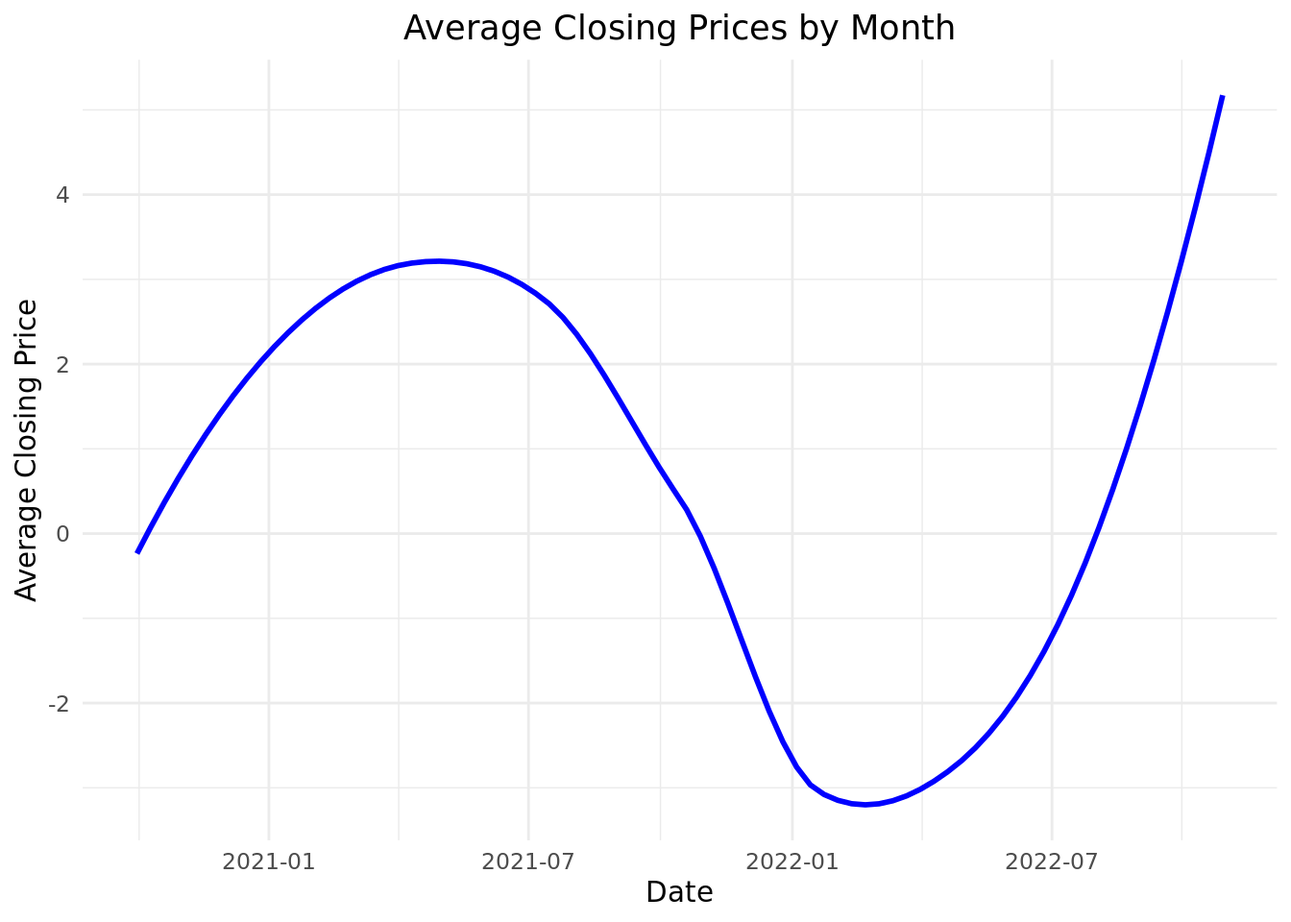
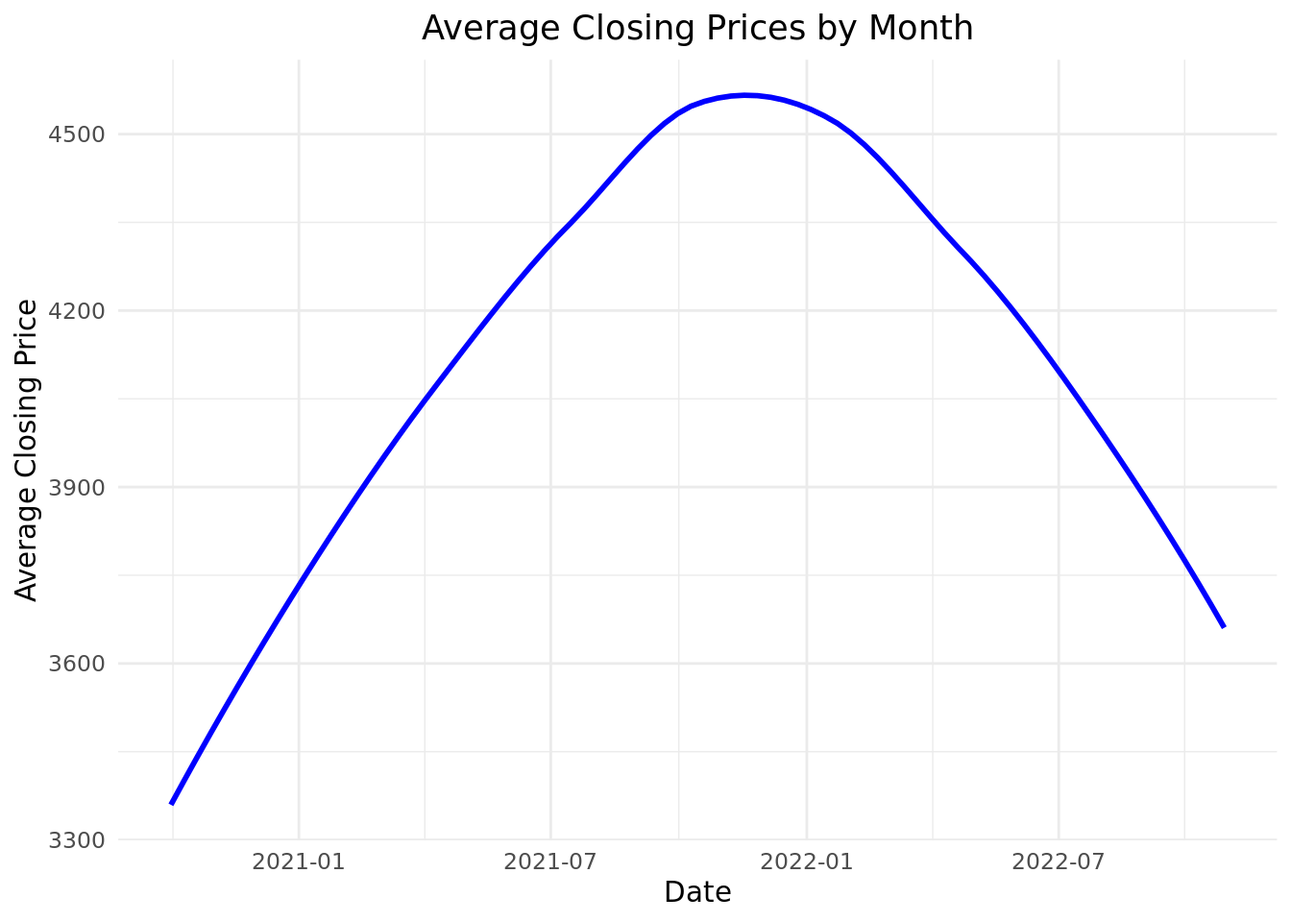
in progress

diff --git a/docs/report.html b/docs/report.html
@@ -226,8 +226,8 @@ code span.wa { color: #60a0b0; font-weight: bold; font-style: italic; } /* Warni
 <p>All of these sites collected these data by retrieving the data published publicly on stock exchanges, except for the federal-funds rate–this data was collected from the World Bank. In addition, each of these sites updates their data monthly/yearly (although they could update it daily, as they are collecting live data). Each observation represents a month in a year (between 1961 and 2020) and includes the following variables:</p>
 <table class="table">
 <colgroup>
-<col style="width: 30%">
-<col style="width: 69%">
+<col style="width: 31%">
+<col style="width: 68%">
 </colgroup>
 <thead>
 <tr class="header">
@@ -458,8 +458,8 @@ $ decade                  &lt;chr&gt; "'60s", "'60s", "'60s", "'60s", "'60s", "'
 <p>Investing.com gets their data from financial-data providers, including stock exchanges and/or directly from market makers (who set stock prices to match supply and demand). The data is collected in real time by monitoring transactions (selling, buying, etc.) executed in the stock market, which correspond to increases/decreases in prices. Each observation represents a different day (between 1 October 2020 and 28 October 2022) and includes the following variables:</p>
 <table class="table">
 <colgroup>
-<col style="width: 29%">
-<col style="width: 70%">
+<col style="width: 30%">
+<col style="width: 69%">
 </colgroup>
 <thead>
 <tr class="header">
@@ -607,11 +607,11 @@ $ gain                 &lt;lgl&gt; TRUE, FALSE, TRUE, TRUE, TRUE, TRUE, FALSE, F
 <span id="cb17-9"><a href="#cb17-9" aria-hidden="true" tabindex="-1"></a>  ) <span class="sc">|&gt;</span></span>
 <span id="cb17-10"><a href="#cb17-10" aria-hidden="true" tabindex="-1"></a>  <span class="fu">group_by</span>(new_date) <span class="sc">|&gt;</span></span>
 <span id="cb17-11"><a href="#cb17-11" aria-hidden="true" tabindex="-1"></a>  <span class="fu">summarise</span>(</span>
-<span id="cb17-12"><a href="#cb17-12" aria-hidden="true" tabindex="-1"></a>    <span class="at">mean_daily_diff =</span> <span class="fu">mean</span>(daily_diff), </span>
+<span id="cb17-12"><a href="#cb17-12" aria-hidden="true" tabindex="-1"></a>    <span class="at">mean_daily_diff =</span> <span class="fu">mean</span>(Price), </span>
 <span id="cb17-13"><a href="#cb17-13" aria-hidden="true" tabindex="-1"></a>    <span class="at">mean_price =</span> <span class="fu">mean</span>(Price), </span>
 <span id="cb17-14"><a href="#cb17-14" aria-hidden="true" tabindex="-1"></a>    <span class="at">.groups =</span> <span class="st">"drop"</span></span>
 <span id="cb17-15"><a href="#cb17-15" aria-hidden="true" tabindex="-1"></a>  ) <span class="sc">|&gt;</span></span>
-<span id="cb17-16"><a href="#cb17-16" aria-hidden="true" tabindex="-1"></a>  <span class="fu">ggplot</span>(<span class="fu">aes</span>(<span class="at">x =</span> new_date, <span class="at">y =</span> mean_daily_diff)) <span class="sc">+</span></span>
+<span id="cb17-16"><a href="#cb17-16" aria-hidden="true" tabindex="-1"></a>  <span class="fu">ggplot</span>(<span class="fu">aes</span>(<span class="at">x =</span> new_date, <span class="at">y =</span> mean_price)) <span class="sc">+</span></span>
 <span id="cb17-17"><a href="#cb17-17" aria-hidden="true" tabindex="-1"></a>  <span class="fu">geom_smooth</span>(<span class="at">se=</span> <span class="cn">FALSE</span>, <span class="at">colour =</span> <span class="st">"blue"</span>) <span class="sc">+</span></span>
 <span id="cb17-18"><a href="#cb17-18" aria-hidden="true" tabindex="-1"></a>  <span class="fu">labs</span>(</span>
 <span id="cb17-19"><a href="#cb17-19" aria-hidden="true" tabindex="-1"></a>    <span class="at">x =</span> <span class="st">"Date"</span>,</span>
@@ -624,6 +624,7 @@ $ gain                 &lt;lgl&gt; TRUE, FALSE, TRUE, TRUE, TRUE, TRUE, FALSE, F
 <p><img src="report_files/figure-html/l%20label-%20last-first-day-price-difference-2.png" class="img-fluid" width="672"></p>
 </div>
 </div>
+<p>We then graphed the average daily change (between opening and closing prices) and closing price for each month. We did this by grouping the data by months then finding the summary mean of the average daily change and closing price for each month. Then we used geom_smooth to plot a line graph to visualizing the trends from 10/01/2020 to 10/28/2022. We observe that the average daily difference between opening and closing prices (plotted in red) increase logarithmically from October 2020 to approximately May 2021, decrease linearly from May 2021 to February 2022, then increase exponentially from February 2022 to October 2022. We observe that the average closing prices increase linearly from October 2020 to approximately November 2021, then decrease linearly from November 2021 to October 2022.&nbsp;</p>
 <p>Conclusion: Our initial hypothesis of “the stock market will fall as inflation rates rise, but even then there are good times to invest even with problematic circumstances” is partially backed up by the data. For example, in our third visual, when the Average Daily Difference is below 0 near the 2022-01 to 2022-07 timeframe, the Average closing prices are still relatively high compared to earlier ones. Also, in our second visual, we can see that 2022-07 month has one of the highest gain/loss proportions, yet still has a negative average daily difference from our third visual. Our data also answers the original question of “when to be bearish and when to be bullish” as our second visual shows the months in which daily gains or losses are more prevalent.</p>
 <div style="page-break-after: always;"></div>
 </section>
@@ -638,8 +639,8 @@ $ gain                 &lt;lgl&gt; TRUE, FALSE, TRUE, TRUE, TRUE, TRUE, FALSE, F
 <p>DATA HUB collected their data from S&amp;P Dow Jones Indices (which, in turn, is collected daily from stock exchanges), and Slickcharts their data directly from the stock exchange. Each observation represents a different company and includes the following variables:</p>
 <table class="table">
 <colgroup>
-<col style="width: 30%">
-<col style="width: 69%">
+<col style="width: 26%">
+<col style="width: 73%">
 </colgroup>
 <thead>
 <tr class="header">
@@ -701,61 +702,87 @@ $ sector          &lt;chr&gt; "Information Technology", "Information Technology"
 $ return_category &lt;chr&gt; "negative", "negative", "negative", "negative", "negat…</code></pre>
 </div>
 </div>
-<p>Our first bar graph will analyze just the total number of stocks in the S&amp;P 500 that saw a decrease, and those that saw an increase.</p>
 <div class="cell">
 <div class="sourceCode cell-code" id="cb20"><pre class="sourceCode r code-with-copy"><code class="sourceCode r"><span id="cb20-1"><a href="#cb20-1" aria-hidden="true" tabindex="-1"></a><span class="co">#|: overall-stocks_performance-barchart</span></span>
 <span id="cb20-2"><a href="#cb20-2" aria-hidden="true" tabindex="-1"></a>sp500_by_company_and_sector <span class="sc">|&gt;</span></span>
-<span id="cb20-3"><a href="#cb20-3" aria-hidden="true" tabindex="-1"></a>  <span class="fu">ggplot</span>(<span class="fu">aes</span>(<span class="at">x =</span> return_category)) <span class="sc">+</span></span>
-<span id="cb20-4"><a href="#cb20-4" aria-hidden="true" tabindex="-1"></a>  <span class="fu">geom_bar</span>() <span class="sc">+</span></span>
+<span id="cb20-3"><a href="#cb20-3" aria-hidden="true" tabindex="-1"></a>  <span class="fu">ggplot</span>(<span class="fu">aes</span>(<span class="at">x =</span> return_category, <span class="at">fill =</span> return_category)) <span class="sc">+</span></span>
+<span id="cb20-4"><a href="#cb20-4" aria-hidden="true" tabindex="-1"></a>  <span class="fu">geom_bar</span>(<span class="at">show.legend =</span> <span class="cn">FALSE</span>) <span class="sc">+</span></span>
 <span id="cb20-5"><a href="#cb20-5" aria-hidden="true" tabindex="-1"></a>  <span class="fu">labs</span>(</span>
 <span id="cb20-6"><a href="#cb20-6" aria-hidden="true" tabindex="-1"></a>    <span class="at">title =</span> <span class="st">"Rising and Decreasing Stock Prices"</span>,</span>
 <span id="cb20-7"><a href="#cb20-7" aria-hidden="true" tabindex="-1"></a>    <span class="at">x =</span> <span class="st">"Change in Price (%)"</span>,</span>
 <span id="cb20-8"><a href="#cb20-8" aria-hidden="true" tabindex="-1"></a>    <span class="at">y =</span> <span class="st">"Number of Companies"</span>,</span>
 <span id="cb20-9"><a href="#cb20-9" aria-hidden="true" tabindex="-1"></a>    <span class="at">fill =</span> <span class="st">"cc"</span></span>
-<span id="cb20-10"><a href="#cb20-10" aria-hidden="true" tabindex="-1"></a>       )</span></code><button title="Copy to Clipboard" class="code-copy-button"><i class="bi"></i></button></pre></div>
+<span id="cb20-10"><a href="#cb20-10" aria-hidden="true" tabindex="-1"></a>       ) <span class="sc">+</span></span>
+<span id="cb20-11"><a href="#cb20-11" aria-hidden="true" tabindex="-1"></a>  <span class="fu">theme_minimal</span>() <span class="sc">+</span></span>
+<span id="cb20-12"><a href="#cb20-12" aria-hidden="true" tabindex="-1"></a>  <span class="fu">scale_fill_viridis_d</span>()</span></code><button title="Copy to Clipboard" class="code-copy-button"><i class="bi"></i></button></pre></div>
 <div class="cell-output-display">
 <p><img src="report_files/figure-html/unnamed-chunk-14-1.png" class="img-fluid" width="672"></p>
 </div>
 </div>
+<p>Our first bar graph will analyze just the total number of stocks in the S&amp;P 500 that saw a decrease, and those that saw an increase. We model this by using each stocks year to date return, and classifying it as a decrease if the percentage was negative, and increase if positive. We used geom_bar() in our ggplot() to have two different bars, one for increasing stocks and one for decreasing, and the height of the bar was determined by whether or not that stock increased in price over the course of the year.</p>
 <p>After seeing the how many stocks rose and fell, we now facet the stocks by sector, to see which sectors specifically saw increases and decreases, and how individual stocks within sectors performed.</p>
 <div class="cell">
 <div class="sourceCode cell-code" id="cb21"><pre class="sourceCode r code-with-copy"><code class="sourceCode r"><span id="cb21-1"><a href="#cb21-1" aria-hidden="true" tabindex="-1"></a><span class="co">#|: stocks-by_sector_barchart</span></span>
 <span id="cb21-2"><a href="#cb21-2" aria-hidden="true" tabindex="-1"></a>sp500_by_company_and_sector <span class="sc">|&gt;</span></span>
-<span id="cb21-3"><a href="#cb21-3" aria-hidden="true" tabindex="-1"></a>  <span class="fu">ggplot</span>(<span class="fu">aes</span>(<span class="at">x =</span> return_category)) <span class="sc">+</span></span>
-<span id="cb21-4"><a href="#cb21-4" aria-hidden="true" tabindex="-1"></a>  <span class="fu">geom_bar</span>() <span class="sc">+</span></span>
+<span id="cb21-3"><a href="#cb21-3" aria-hidden="true" tabindex="-1"></a>  <span class="fu">ggplot</span>(<span class="fu">aes</span>(<span class="at">x =</span> return_category, <span class="at">fill =</span> return_category)) <span class="sc">+</span></span>
+<span id="cb21-4"><a href="#cb21-4" aria-hidden="true" tabindex="-1"></a>  <span class="fu">geom_bar</span>(<span class="at">show.legend=</span><span class="cn">FALSE</span>) <span class="sc">+</span></span>
 <span id="cb21-5"><a href="#cb21-5" aria-hidden="true" tabindex="-1"></a>  <span class="fu">facet_wrap</span>(<span class="sc">~</span>sector) <span class="sc">+</span></span>
 <span id="cb21-6"><a href="#cb21-6" aria-hidden="true" tabindex="-1"></a>  <span class="fu">labs</span>(</span>
 <span id="cb21-7"><a href="#cb21-7" aria-hidden="true" tabindex="-1"></a>    <span class="at">title =</span> <span class="st">"Rising and Decreasing Stock Prices"</span>,</span>
 <span id="cb21-8"><a href="#cb21-8" aria-hidden="true" tabindex="-1"></a>    <span class="at">x =</span> <span class="st">"Change in Price (%)"</span>,</span>
 <span id="cb21-9"><a href="#cb21-9" aria-hidden="true" tabindex="-1"></a>    <span class="at">y =</span> <span class="st">"Number of Companies"</span>,</span>
 <span id="cb21-10"><a href="#cb21-10" aria-hidden="true" tabindex="-1"></a>    <span class="at">fill =</span> <span class="st">"cc"</span></span>
-<span id="cb21-11"><a href="#cb21-11" aria-hidden="true" tabindex="-1"></a>       )</span></code><button title="Copy to Clipboard" class="code-copy-button"><i class="bi"></i></button></pre></div>
+<span id="cb21-11"><a href="#cb21-11" aria-hidden="true" tabindex="-1"></a>       ) <span class="sc">+</span></span>
+<span id="cb21-12"><a href="#cb21-12" aria-hidden="true" tabindex="-1"></a>  <span class="fu">theme_minimal</span>() <span class="sc">+</span></span>
+<span id="cb21-13"><a href="#cb21-13" aria-hidden="true" tabindex="-1"></a>  <span class="fu">scale_fill_viridis_d</span>()</span></code><button title="Copy to Clipboard" class="code-copy-button"><i class="bi"></i></button></pre></div>
 <div class="cell-output-display">
 <p><img src="report_files/figure-html/unnamed-chunk-15-1.png" class="img-fluid" width="672"></p>
 </div>
 </div>
-<p>Finally, for our last graph, we wanted to see exactly what the increase/decrease range was for each sector. So we made boxplots for each sector, with hopes to see who had the highest and lowest median increases, who had the highest and lowest variation, and also who had the highest and lowest maximums and minimums. This information will allow us to understand the most stable sectors, as well as the most unaffected ones.</p>
+<p>Finally, for our last two graphs, we wanted to see exactly what the increase/decrease range was for each sector. So we made box plots for each sector, with hopes to see who had the highest and lowest median increases, who had the highest and lowest variation, and also who had the highest and lowest maximums and minimums. This information will allow us to understand the most stable sectors, as well as the most unaffected ones. On top of that, we classify essential industries as: Consumer Staples, Utilities, and Energy. Then, we look to see if there is a quantifiable difference between which of these two larger groups for sectors performed better.</p>
 <div class="cell">
 <div class="sourceCode cell-code" id="cb22"><pre class="sourceCode r code-with-copy"><code class="sourceCode r"><span id="cb22-1"><a href="#cb22-1" aria-hidden="true" tabindex="-1"></a><span class="co">#|: sectors-performance-barchart</span></span>
 <span id="cb22-2"><a href="#cb22-2" aria-hidden="true" tabindex="-1"></a>sp500_by_company_and_sector <span class="sc">|&gt;</span></span>
-<span id="cb22-3"><a href="#cb22-3" aria-hidden="true" tabindex="-1"></a>  <span class="fu">ggplot</span>(<span class="fu">aes</span>(<span class="at">y =</span> sector, <span class="at">x =</span> ytd_return_num)) <span class="sc">+</span></span>
-<span id="cb22-4"><a href="#cb22-4" aria-hidden="true" tabindex="-1"></a>  <span class="fu">geom_boxplot</span>() <span class="sc">+</span></span>
+<span id="cb22-3"><a href="#cb22-3" aria-hidden="true" tabindex="-1"></a>  <span class="fu">ggplot</span>(<span class="fu">aes</span>(<span class="at">y =</span> sector, <span class="at">x =</span> ytd_return_num, <span class="at">fill =</span> sector)) <span class="sc">+</span></span>
+<span id="cb22-4"><a href="#cb22-4" aria-hidden="true" tabindex="-1"></a>  <span class="fu">geom_boxplot</span>(<span class="at">show.legend =</span> <span class="cn">FALSE</span>) <span class="sc">+</span></span>
 <span id="cb22-5"><a href="#cb22-5" aria-hidden="true" tabindex="-1"></a>  <span class="fu">labs</span>(</span>
 <span id="cb22-6"><a href="#cb22-6" aria-hidden="true" tabindex="-1"></a>  <span class="at">title =</span> <span class="st">"Rising and Decreasing Stock Prices by Sector"</span>,</span>
 <span id="cb22-7"><a href="#cb22-7" aria-hidden="true" tabindex="-1"></a>     <span class="at">x =</span> <span class="st">"% Returns"</span>,</span>
 <span id="cb22-8"><a href="#cb22-8" aria-hidden="true" tabindex="-1"></a>     <span class="at">y =</span> <span class="st">"Sector"</span>,</span>
 <span id="cb22-9"><a href="#cb22-9" aria-hidden="true" tabindex="-1"></a>     <span class="at">fill =</span> <span class="st">"cc"</span></span>
-<span id="cb22-10"><a href="#cb22-10" aria-hidden="true" tabindex="-1"></a>        )</span></code><button title="Copy to Clipboard" class="code-copy-button"><i class="bi"></i></button></pre></div>
+<span id="cb22-10"><a href="#cb22-10" aria-hidden="true" tabindex="-1"></a>        ) <span class="sc">+</span></span>
+<span id="cb22-11"><a href="#cb22-11" aria-hidden="true" tabindex="-1"></a>  <span class="fu">theme_minimal</span>() <span class="sc">+</span></span>
+<span id="cb22-12"><a href="#cb22-12" aria-hidden="true" tabindex="-1"></a>  <span class="fu">scale_fill_viridis_d</span>()</span></code><button title="Copy to Clipboard" class="code-copy-button"><i class="bi"></i></button></pre></div>
 <div class="cell-output-display">
 <p><img src="report_files/figure-html/unnamed-chunk-16-1.png" class="img-fluid" width="672"></p>
+</div>
+<div class="sourceCode cell-code" id="cb23"><pre class="sourceCode r code-with-copy"><code class="sourceCode r"><span id="cb23-1"><a href="#cb23-1" aria-hidden="true" tabindex="-1"></a>sp500_by_company_and_sector <span class="sc">|&gt;</span></span>
+<span id="cb23-2"><a href="#cb23-2" aria-hidden="true" tabindex="-1"></a>  <span class="fu">mutate</span>(</span>
+<span id="cb23-3"><a href="#cb23-3" aria-hidden="true" tabindex="-1"></a>    <span class="at">isEssential =</span> <span class="fu">case_when</span>(</span>
+<span id="cb23-4"><a href="#cb23-4" aria-hidden="true" tabindex="-1"></a>      sector <span class="sc">==</span> <span class="st">"Utilities"</span> <span class="sc">|</span> sector <span class="sc">==</span> <span class="st">"Energy"</span> <span class="sc">|</span> sector <span class="sc">==</span> <span class="st">"Consumer Staples"</span> <span class="sc">~</span> <span class="st">"Essential"</span>,</span>
+<span id="cb23-5"><a href="#cb23-5" aria-hidden="true" tabindex="-1"></a>      <span class="cn">TRUE</span> <span class="sc">~</span> <span class="st">"Nonessential"</span></span>
+<span id="cb23-6"><a href="#cb23-6" aria-hidden="true" tabindex="-1"></a>    )</span>
+<span id="cb23-7"><a href="#cb23-7" aria-hidden="true" tabindex="-1"></a>  )<span class="sc">|&gt;</span></span>
+<span id="cb23-8"><a href="#cb23-8" aria-hidden="true" tabindex="-1"></a>  <span class="fu">ggplot</span>(<span class="fu">aes</span>(<span class="at">y =</span> ytd_return_num, <span class="at">x =</span> isEssential, <span class="at">fill =</span> isEssential)) <span class="sc">+</span></span>
+<span id="cb23-9"><a href="#cb23-9" aria-hidden="true" tabindex="-1"></a>  <span class="fu">geom_violin</span>(<span class="at">show.legend =</span> <span class="cn">FALSE</span>) <span class="sc">+</span></span>
+<span id="cb23-10"><a href="#cb23-10" aria-hidden="true" tabindex="-1"></a>  <span class="fu">labs</span>(</span>
+<span id="cb23-11"><a href="#cb23-11" aria-hidden="true" tabindex="-1"></a>  <span class="at">title =</span> <span class="st">"Essential Industries and their Effects on Change in Stock Price "</span>,</span>
+<span id="cb23-12"><a href="#cb23-12" aria-hidden="true" tabindex="-1"></a>     <span class="at">y =</span> <span class="st">"% Returns"</span>,</span>
+<span id="cb23-13"><a href="#cb23-13" aria-hidden="true" tabindex="-1"></a>     <span class="at">x =</span> <span class="st">"Sector"</span>,</span>
+<span id="cb23-14"><a href="#cb23-14" aria-hidden="true" tabindex="-1"></a>     <span class="at">fill =</span> <span class="st">"cc"</span></span>
+<span id="cb23-15"><a href="#cb23-15" aria-hidden="true" tabindex="-1"></a>        ) <span class="sc">+</span></span>
+<span id="cb23-16"><a href="#cb23-16" aria-hidden="true" tabindex="-1"></a>  <span class="fu">theme_minimal</span>() <span class="sc">+</span></span>
+<span id="cb23-17"><a href="#cb23-17" aria-hidden="true" tabindex="-1"></a>  <span class="fu">scale_fill_viridis_d</span>()</span></code><button title="Copy to Clipboard" class="code-copy-button"><i class="bi"></i></button></pre></div>
+<div class="cell-output-display">
+<p><img src="report_files/figure-html/unnamed-chunk-16-2.png" class="img-fluid" width="672"></p>
 </div>
 </div>
 <p>Now we will analyze the mean return for all the stocks in a given sector to see which sectors performed the best.</p>
 <div class="cell">
-<div class="sourceCode cell-code" id="cb23"><pre class="sourceCode r code-with-copy"><code class="sourceCode r"><span id="cb23-1"><a href="#cb23-1" aria-hidden="true" tabindex="-1"></a>sp500_by_company_and_sector <span class="sc">|&gt;</span></span>
-<span id="cb23-2"><a href="#cb23-2" aria-hidden="true" tabindex="-1"></a>  <span class="fu">group_by</span>(sector) <span class="sc">|&gt;</span></span>
-<span id="cb23-3"><a href="#cb23-3" aria-hidden="true" tabindex="-1"></a>  <span class="fu">summarize</span>(<span class="at">sector_perf =</span> <span class="fu">mean</span>(ytd_return_num, <span class="at">na.rm =</span> <span class="cn">TRUE</span>)) <span class="sc">|&gt;</span></span>
-<span id="cb23-4"><a href="#cb23-4" aria-hidden="true" tabindex="-1"></a>  <span class="fu">arrange</span>(<span class="fu">desc</span>(sector_perf))</span></code><button title="Copy to Clipboard" class="code-copy-button"><i class="bi"></i></button></pre></div>
+<div class="sourceCode cell-code" id="cb24"><pre class="sourceCode r code-with-copy"><code class="sourceCode r"><span id="cb24-1"><a href="#cb24-1" aria-hidden="true" tabindex="-1"></a>sp500_by_company_and_sector <span class="sc">|&gt;</span></span>
+<span id="cb24-2"><a href="#cb24-2" aria-hidden="true" tabindex="-1"></a>  <span class="fu">group_by</span>(sector) <span class="sc">|&gt;</span></span>
+<span id="cb24-3"><a href="#cb24-3" aria-hidden="true" tabindex="-1"></a>  <span class="fu">summarize</span>(<span class="at">sector_perf =</span> <span class="fu">mean</span>(ytd_return_num, <span class="at">na.rm =</span> <span class="cn">TRUE</span>)) <span class="sc">|&gt;</span></span>
+<span id="cb24-4"><a href="#cb24-4" aria-hidden="true" tabindex="-1"></a>  <span class="fu">arrange</span>(<span class="fu">desc</span>(sector_perf))</span></code><button title="Copy to Clipboard" class="code-copy-button"><i class="bi"></i></button></pre></div>
 <div class="cell-output cell-output-stdout">
 <pre><code># A tibble: 11 × 2
    sector                 sector_perf
@@ -775,11 +802,11 @@ $ return_category &lt;chr&gt; "negative", "negative", "negative", "negative", "n
 </div>
 <p>This next tibble goes a little more in detail to specifically which companies did the best, and which sectors they were a part of.</p>
 <div class="cell">
-<div class="sourceCode cell-code" id="cb25"><pre class="sourceCode r code-with-copy"><code class="sourceCode r"><span id="cb25-1"><a href="#cb25-1" aria-hidden="true" tabindex="-1"></a><span class="co">#|: 10_best_returns</span></span>
-<span id="cb25-2"><a href="#cb25-2" aria-hidden="true" tabindex="-1"></a>sp500_by_company_and_sector <span class="sc">|&gt;</span></span>
-<span id="cb25-3"><a href="#cb25-3" aria-hidden="true" tabindex="-1"></a>  <span class="fu">arrange</span>(<span class="fu">desc</span>(ytd_return_num)) <span class="sc">|&gt;</span></span>
-<span id="cb25-4"><a href="#cb25-4" aria-hidden="true" tabindex="-1"></a>  <span class="fu">slice_head</span>(<span class="at">n =</span> <span class="dv">10</span>) <span class="sc">|&gt;</span></span>
-<span id="cb25-5"><a href="#cb25-5" aria-hidden="true" tabindex="-1"></a>  <span class="fu">select</span>(name, symbol, ytd_return_num, sector)</span></code><button title="Copy to Clipboard" class="code-copy-button"><i class="bi"></i></button></pre></div>
+<div class="sourceCode cell-code" id="cb26"><pre class="sourceCode r code-with-copy"><code class="sourceCode r"><span id="cb26-1"><a href="#cb26-1" aria-hidden="true" tabindex="-1"></a><span class="co">#|: 10_best_returns</span></span>
+<span id="cb26-2"><a href="#cb26-2" aria-hidden="true" tabindex="-1"></a>sp500_by_company_and_sector <span class="sc">|&gt;</span></span>
+<span id="cb26-3"><a href="#cb26-3" aria-hidden="true" tabindex="-1"></a>  <span class="fu">arrange</span>(<span class="fu">desc</span>(ytd_return_num)) <span class="sc">|&gt;</span></span>
+<span id="cb26-4"><a href="#cb26-4" aria-hidden="true" tabindex="-1"></a>  <span class="fu">slice_head</span>(<span class="at">n =</span> <span class="dv">10</span>) <span class="sc">|&gt;</span></span>
+<span id="cb26-5"><a href="#cb26-5" aria-hidden="true" tabindex="-1"></a>  <span class="fu">select</span>(name, symbol, ytd_return_num, sector)</span></code><button title="Copy to Clipboard" class="code-copy-button"><i class="bi"></i></button></pre></div>
 <div class="cell-output cell-output-stdout">
 <pre><code># A tibble: 10 × 4
    name                 symbol ytd_return_num sector   
@@ -798,11 +825,11 @@ $ return_category &lt;chr&gt; "negative", "negative", "negative", "negative", "n
 </div>
 <p>And what about the opposite end? Which companies were the most negatively affected, and which sectors were they in?</p>
 <div class="cell">
-<div class="sourceCode cell-code" id="cb27"><pre class="sourceCode r code-with-copy"><code class="sourceCode r"><span id="cb27-1"><a href="#cb27-1" aria-hidden="true" tabindex="-1"></a><span class="co">#|: 10_worst_returns</span></span>
-<span id="cb27-2"><a href="#cb27-2" aria-hidden="true" tabindex="-1"></a>sp500_by_company_and_sector <span class="sc">|&gt;</span></span>
-<span id="cb27-3"><a href="#cb27-3" aria-hidden="true" tabindex="-1"></a>  <span class="fu">arrange</span>(ytd_return_num) <span class="sc">|&gt;</span></span>
-<span id="cb27-4"><a href="#cb27-4" aria-hidden="true" tabindex="-1"></a>  <span class="fu">slice_head</span>(<span class="at">n =</span> <span class="dv">10</span>) <span class="sc">|&gt;</span></span>
-<span id="cb27-5"><a href="#cb27-5" aria-hidden="true" tabindex="-1"></a>  <span class="fu">select</span>(name, symbol, ytd_return_num, sector)</span></code><button title="Copy to Clipboard" class="code-copy-button"><i class="bi"></i></button></pre></div>
+<div class="sourceCode cell-code" id="cb28"><pre class="sourceCode r code-with-copy"><code class="sourceCode r"><span id="cb28-1"><a href="#cb28-1" aria-hidden="true" tabindex="-1"></a><span class="co">#|: 10_worst_returns</span></span>
+<span id="cb28-2"><a href="#cb28-2" aria-hidden="true" tabindex="-1"></a>sp500_by_company_and_sector <span class="sc">|&gt;</span></span>
+<span id="cb28-3"><a href="#cb28-3" aria-hidden="true" tabindex="-1"></a>  <span class="fu">arrange</span>(ytd_return_num) <span class="sc">|&gt;</span></span>
+<span id="cb28-4"><a href="#cb28-4" aria-hidden="true" tabindex="-1"></a>  <span class="fu">slice_head</span>(<span class="at">n =</span> <span class="dv">10</span>) <span class="sc">|&gt;</span></span>
+<span id="cb28-5"><a href="#cb28-5" aria-hidden="true" tabindex="-1"></a>  <span class="fu">select</span>(name, symbol, ytd_return_num, sector)</span></code><button title="Copy to Clipboard" class="code-copy-button"><i class="bi"></i></button></pre></div>
 <div class="cell-output cell-output-stdout">
 <pre><code># A tibble: 10 × 4
    name                   symbol ytd_return_num sector                
